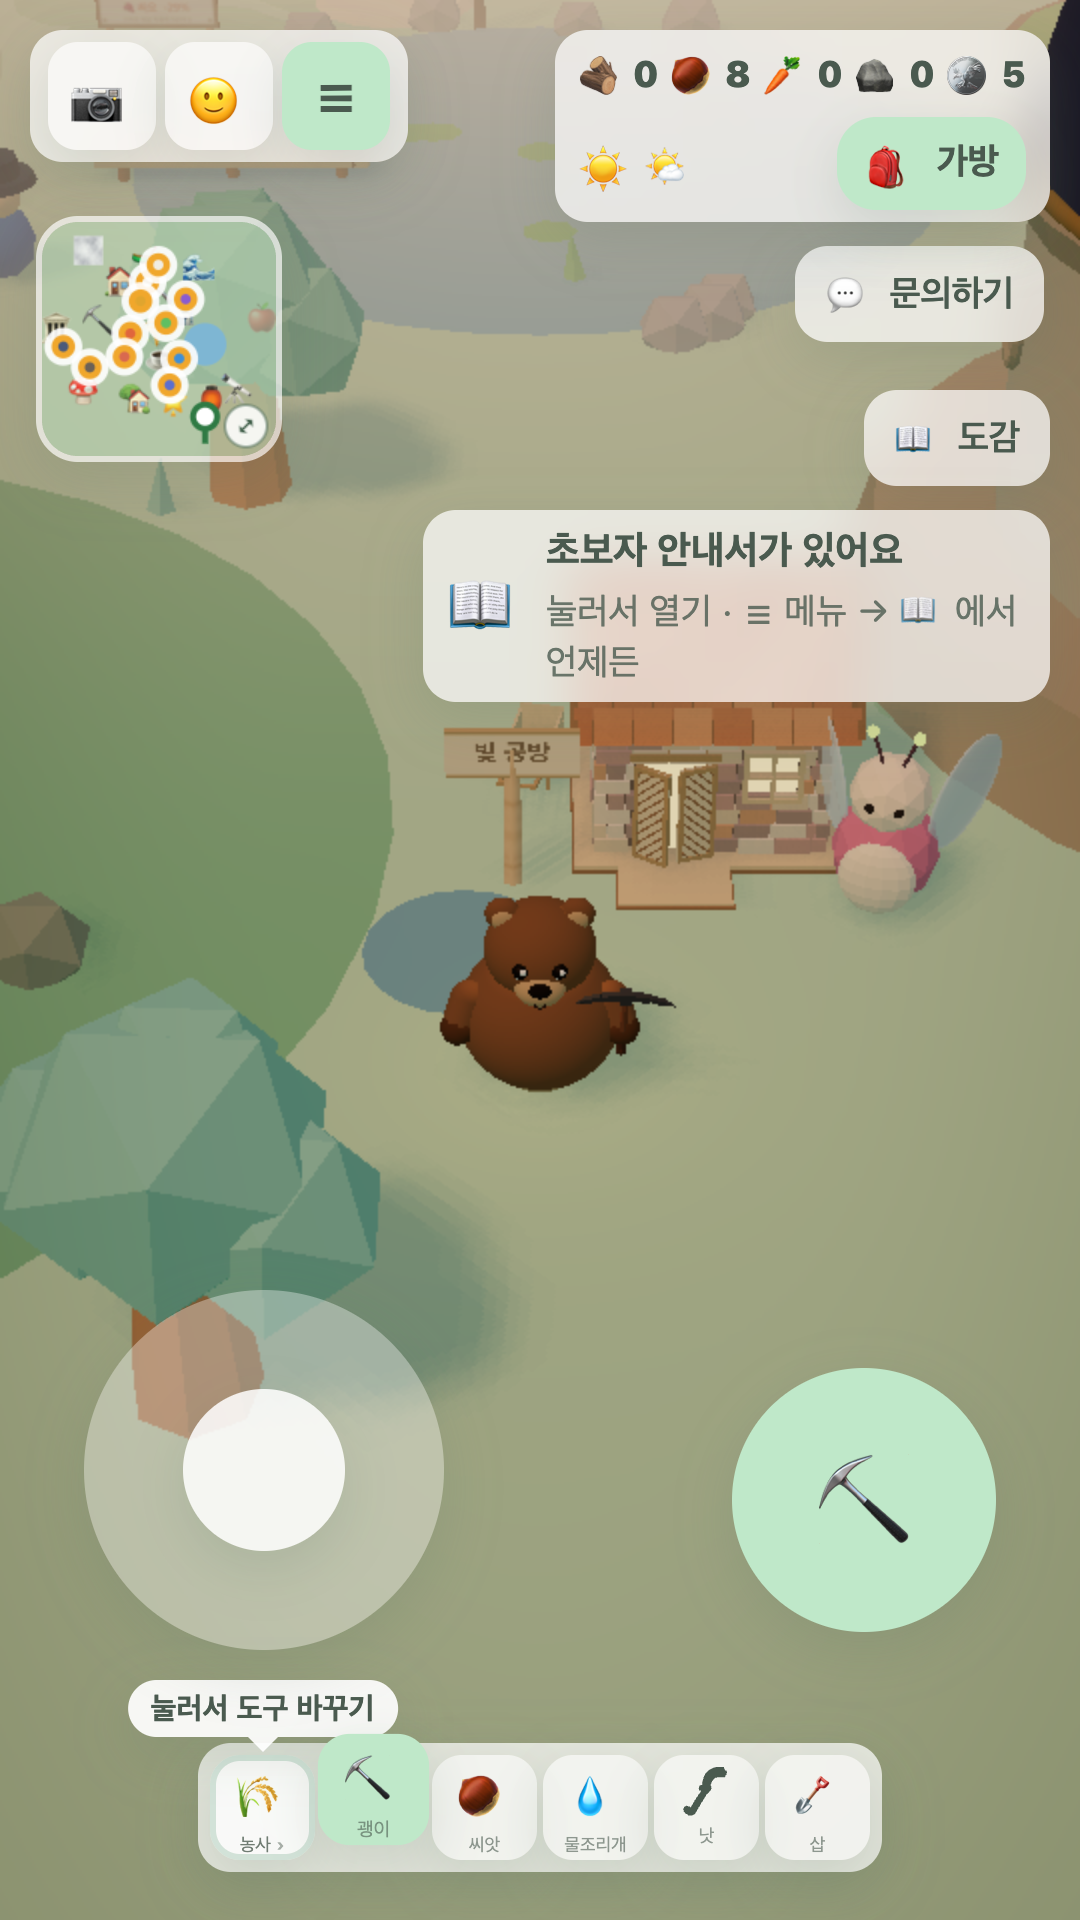
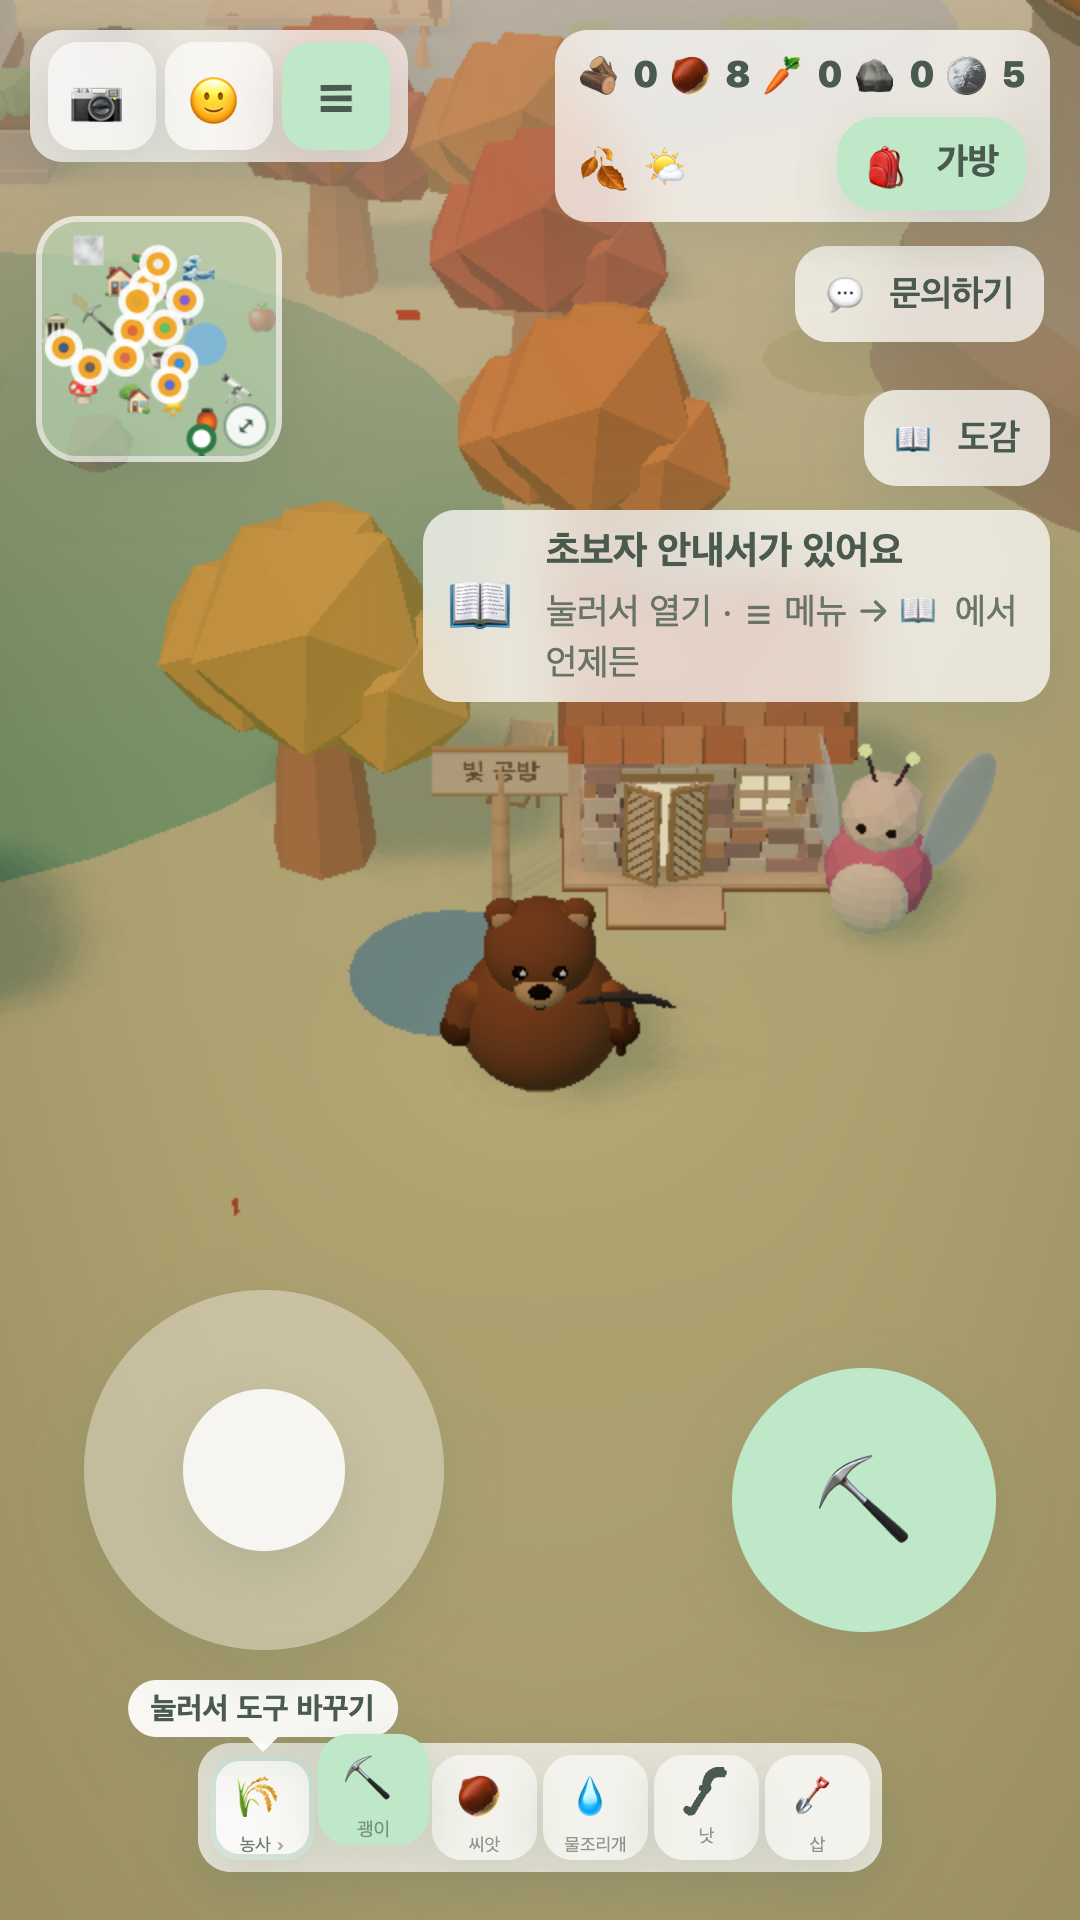
feat: light workshop sits at the southeast treeline of the glade

Changed region(s): [[0.0, 0.0, 1.0, 0.75], [0.7944, 0.0, 1.0, 0.2188], [0.7944, 0.25, 0.9472, 0.2812]]

diff --git a/js/spaces/glade.js b/js/spaces/glade.js
@@ -12,7 +12,7 @@ import {
   spawnFloatText, spawnSparkle, spawnTree, trackGateBlocked, tryUnlockDrop, ui,
 } from '../game.js';   // 🔁 순환 import — 함수 안에서만 쓴다(로딩 시점엔 안 읽는다: verify-extract (d))
 import { trackEvent } from '../analytics.js';
-import { BUG_KINDS, CAFE_GATE, GLADE, GLADE_R, LIGHT_WORKSHOP } from '../data/places.js';
+import { BUG_KINDS, CAFE_GATE, GLADE, GLADE_R, LIGHT_WORKSHOP, LIGHT_WORKSHOP_POND } from '../data/places.js';
 import { PAL } from '../data/world.js';
 import { NIGHT_MIN } from '../daynight.js';
 import { rollKind } from '../dex-gates.js';
@@ -39,7 +39,9 @@ export function buildGlade() {
     const a = (i / 11) * Math.PI * 2 + 0.25, r = GLADE_R + 1.4 + Math.random() * 1.2;
     const tx = GLADE.x + Math.cos(a) * r, tz = GLADE.z + Math.sin(a) * r;
     if (dist2D({ x: tx, z: tz }, CAFE_GATE) < 5.5) continue;   // ☕ 카페 시야를 가리지 않게 비움
-    if (dist2D({ x: tx, z: tz }, LIGHT_WORKSHOP) < 4) continue;   // 🏮 빛 공방 자리(링 동쪽 바깥)에 박히지 않게
+    // 🏮 빛 공방 — 오두막에 박히는 나무만 비우고 옆 나무는 남긴다(숲 가장자리 느낌) · 연못 위도 비움
+    if (dist2D({ x: tx, z: tz }, LIGHT_WORKSHOP) < 2.8) continue;
+    if (dist2D({ x: tx, z: tz }, { x: LIGHT_WORKSHOP.x + LIGHT_WORKSHOP_POND.x, z: LIGHT_WORKSHOP.z + LIGHT_WORKSHOP_POND.z }) < LIGHT_WORKSHOP_POND.r + 0.6) continue;
     spawnTree(tx, tz);
   }
   obstacles.push({ x: GLADE.x, z: GLADE.z, r: GLADE_R });   // 계곡 안엔 밭 금지(빈터 유지)

diff --git a/js/spaces/light-workshop.js b/js/spaces/light-workshop.js
@@ -3,7 +3,7 @@
 //  ⚠ game.js 와 순환 import — 로딩 시점엔 game.js 값을 읽지 않는다(함수 안에서만).
 // =============================================================
 import { makeNameTag, makeSignpost, mergeGeos, obstacles, paintGeo, scene, solidCircle, vtxMat } from '../game.js';
-import { LIGHT_WORKSHOP } from '../data/places.js';
+import { LIGHT_WORKSHOP, LIGHT_WORKSHOP_POND } from '../data/places.js';
 import { buildCartGeos, buildHutGeos } from './light-workshop-hut.js';
 import * as THREE from 'three';
 
@@ -45,7 +45,7 @@ export function buildLightWorkshop() {
   const { solid, glow } = buildHutGeos(THREE);
   const cartAt = new THREE.Matrix4().makeRotationY(Math.PI / 2 - 0.2).setPosition(-1.65, 0, -0.5);   // 왼쪽 박공 옆, 뒤쪽 — 손잡이가 팻말에 닿지 않게
   solid.push(...buildCartGeos(THREE, cartAt));
-  solid.push(paintGeo(baked(new THREE.CircleGeometry(0.9, 20), -2.3, 0.03, 2.3, { rot: [-Math.PI / 2, 0, 0] }), 0x7fb7c9));   // 연못
+  solid.push(paintGeo(baked(new THREE.CircleGeometry(LIGHT_WORKSHOP_POND.r, 20), LIGHT_WORKSHOP_POND.x, 0.03, LIGHT_WORKSHOP_POND.z, { rot: [-Math.PI / 2, 0, 0] }), 0x7fb7c9));   // 연못
   const hut = new THREE.Mesh(mergeGeos(solid), vtxMat());
   hut.castShadow = true; hut.receiveShadow = true; g.add(hut);
   g.add(new THREE.Mesh(mergeGeos(glow), new THREE.MeshBasicMaterial({ color: 0xffe2a0 })));

diff --git a/js/game.js b/js/game.js
@@ -2860,7 +2860,7 @@ function buildWorld() {
       || dist2D({ x, z }, { x: MUSEUM_GATE.x, z: MUSEUM_GATE.z + 5 }) < 3.5   //    계단 앞 진입로도 틔운다
       || dist2D({ x, z }, OBSERVATORY_GATE) < 6.2   // 🔭 천문대 — 돔과 계단이 나무에 가리지 않게
       || dist2D({ x, z }, { x: OBSERVATORY_GATE.x, z: OBSERVATORY_GATE.z + 5 }) < 3.8
-      || dist2D({ x, z }, LIGHT_WORKSHOP) < 4   // 🏮 빛 공방 오두막·손수레·연못 위엔 나무 금지
+      || dist2D({ x, z }, LIGHT_WORKSHOP) < 4.3   // 🏮 빛 공방 오두막·손수레·연못 위엔 나무 금지
       || dist2D({ x, z }, NEIGHBOR_GATE) < 3   // 🏡 이웃 마을 팻말이 나무에 가리지 않게
       || orchardGateBlocks(x, z)   // 🍎 과수원 입구 잔디 판·울타리 위엔 벌목 나무 금지
       || dist2D({ x, z }, RANK) < 3.5   // 🏆 랭킹 게시판이 나무에 가리지 않게

diff --git a/dev/active/light-workshop/light-workshop-context.md b/dev/active/light-workshop/light-workshop-context.md
@@ -48,3 +48,4 @@
   - 계곡 링(최대 반경 9.6)+반폭 1.3, 천문대 기단 5.7+반폭+틈 0.9 를 테스트가 검사
 - 📍 같은 날 한 번 더 남쪽으로: (17, 21.6) → **(17.6, 25.5)** 천문대 계단 왼쪽 빈터(사용자 "더 밑으로"). 계곡 링 나무 2그루(−18.5°·14.3°)가 4 안에 들어와 glade.js 가 비운다
 - 🗺 미니맵·전체 지도 지명 `{ ico: '🏮', name: '빛 공방', pri: 1 }` + 영어 'Light Workshop' — 🔭 천문대와 겹치지 않음(캡처 확인)
+- 📍 2026-10-09 최종(?): **(16.5, 32)** 계곡 남동쪽 나무숲 가장자리(사용자 "더더더 밑으로, 나무 쪽으로"). 계곡 링 나무는 오두막에 박히는 것(<2.8)·연못 위(LIGHT_WORKSHOP_POND.r+0.6)만 비우고 14.3°·47° 두 그루는 옆·뒤에 남겨 숲 느낌 · 마을 걷기 경계 42 안
